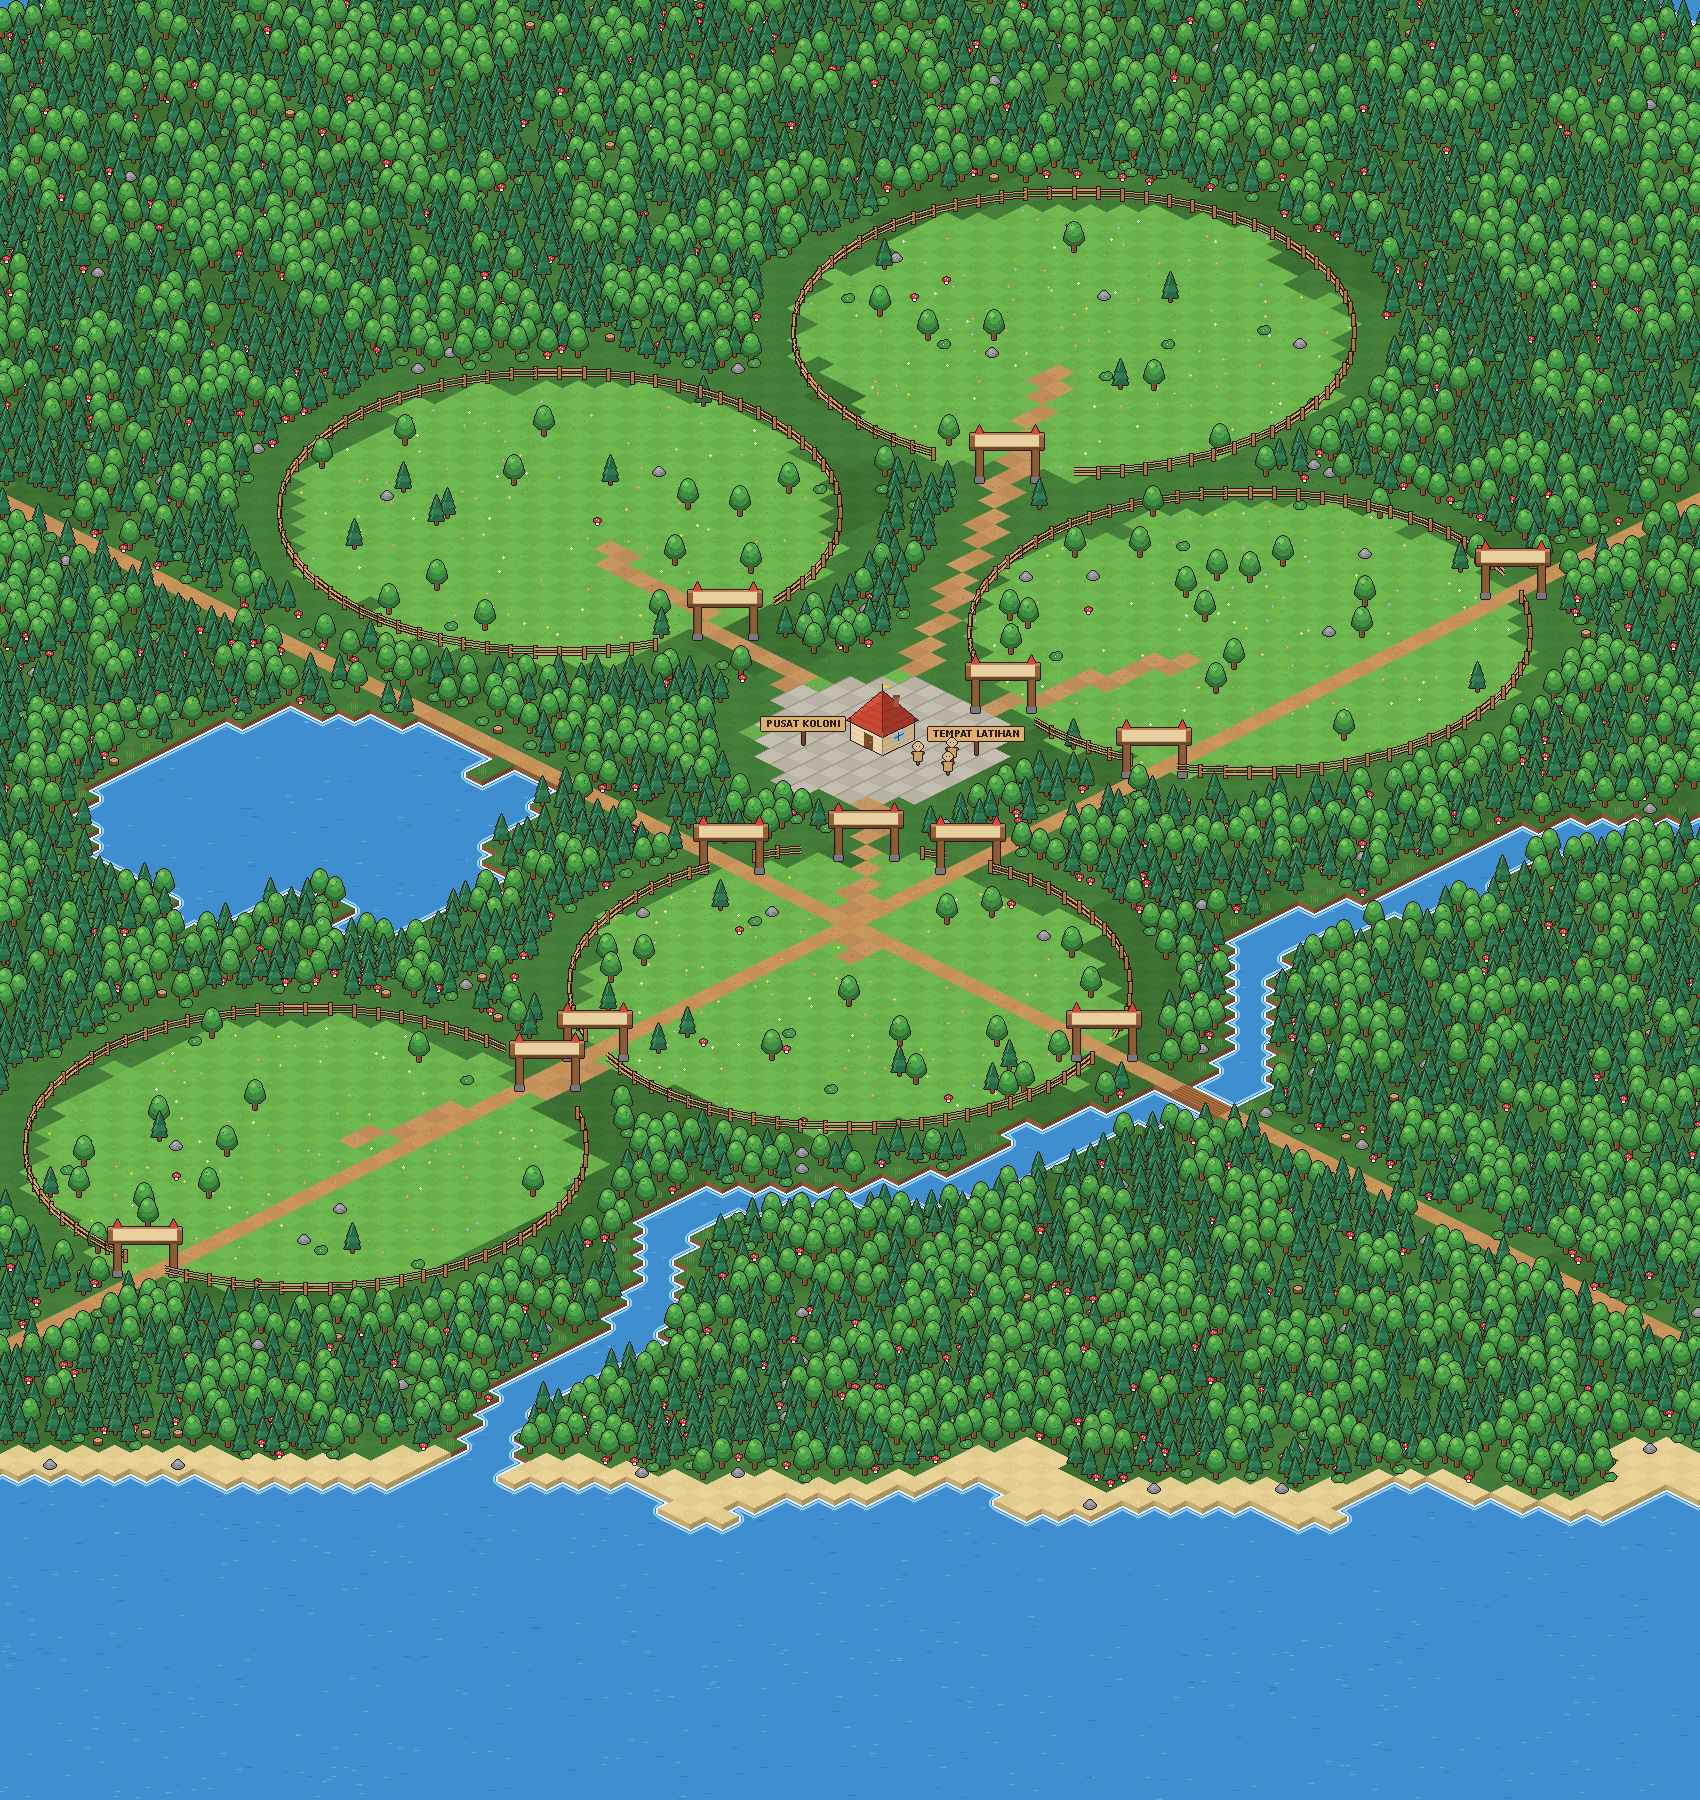
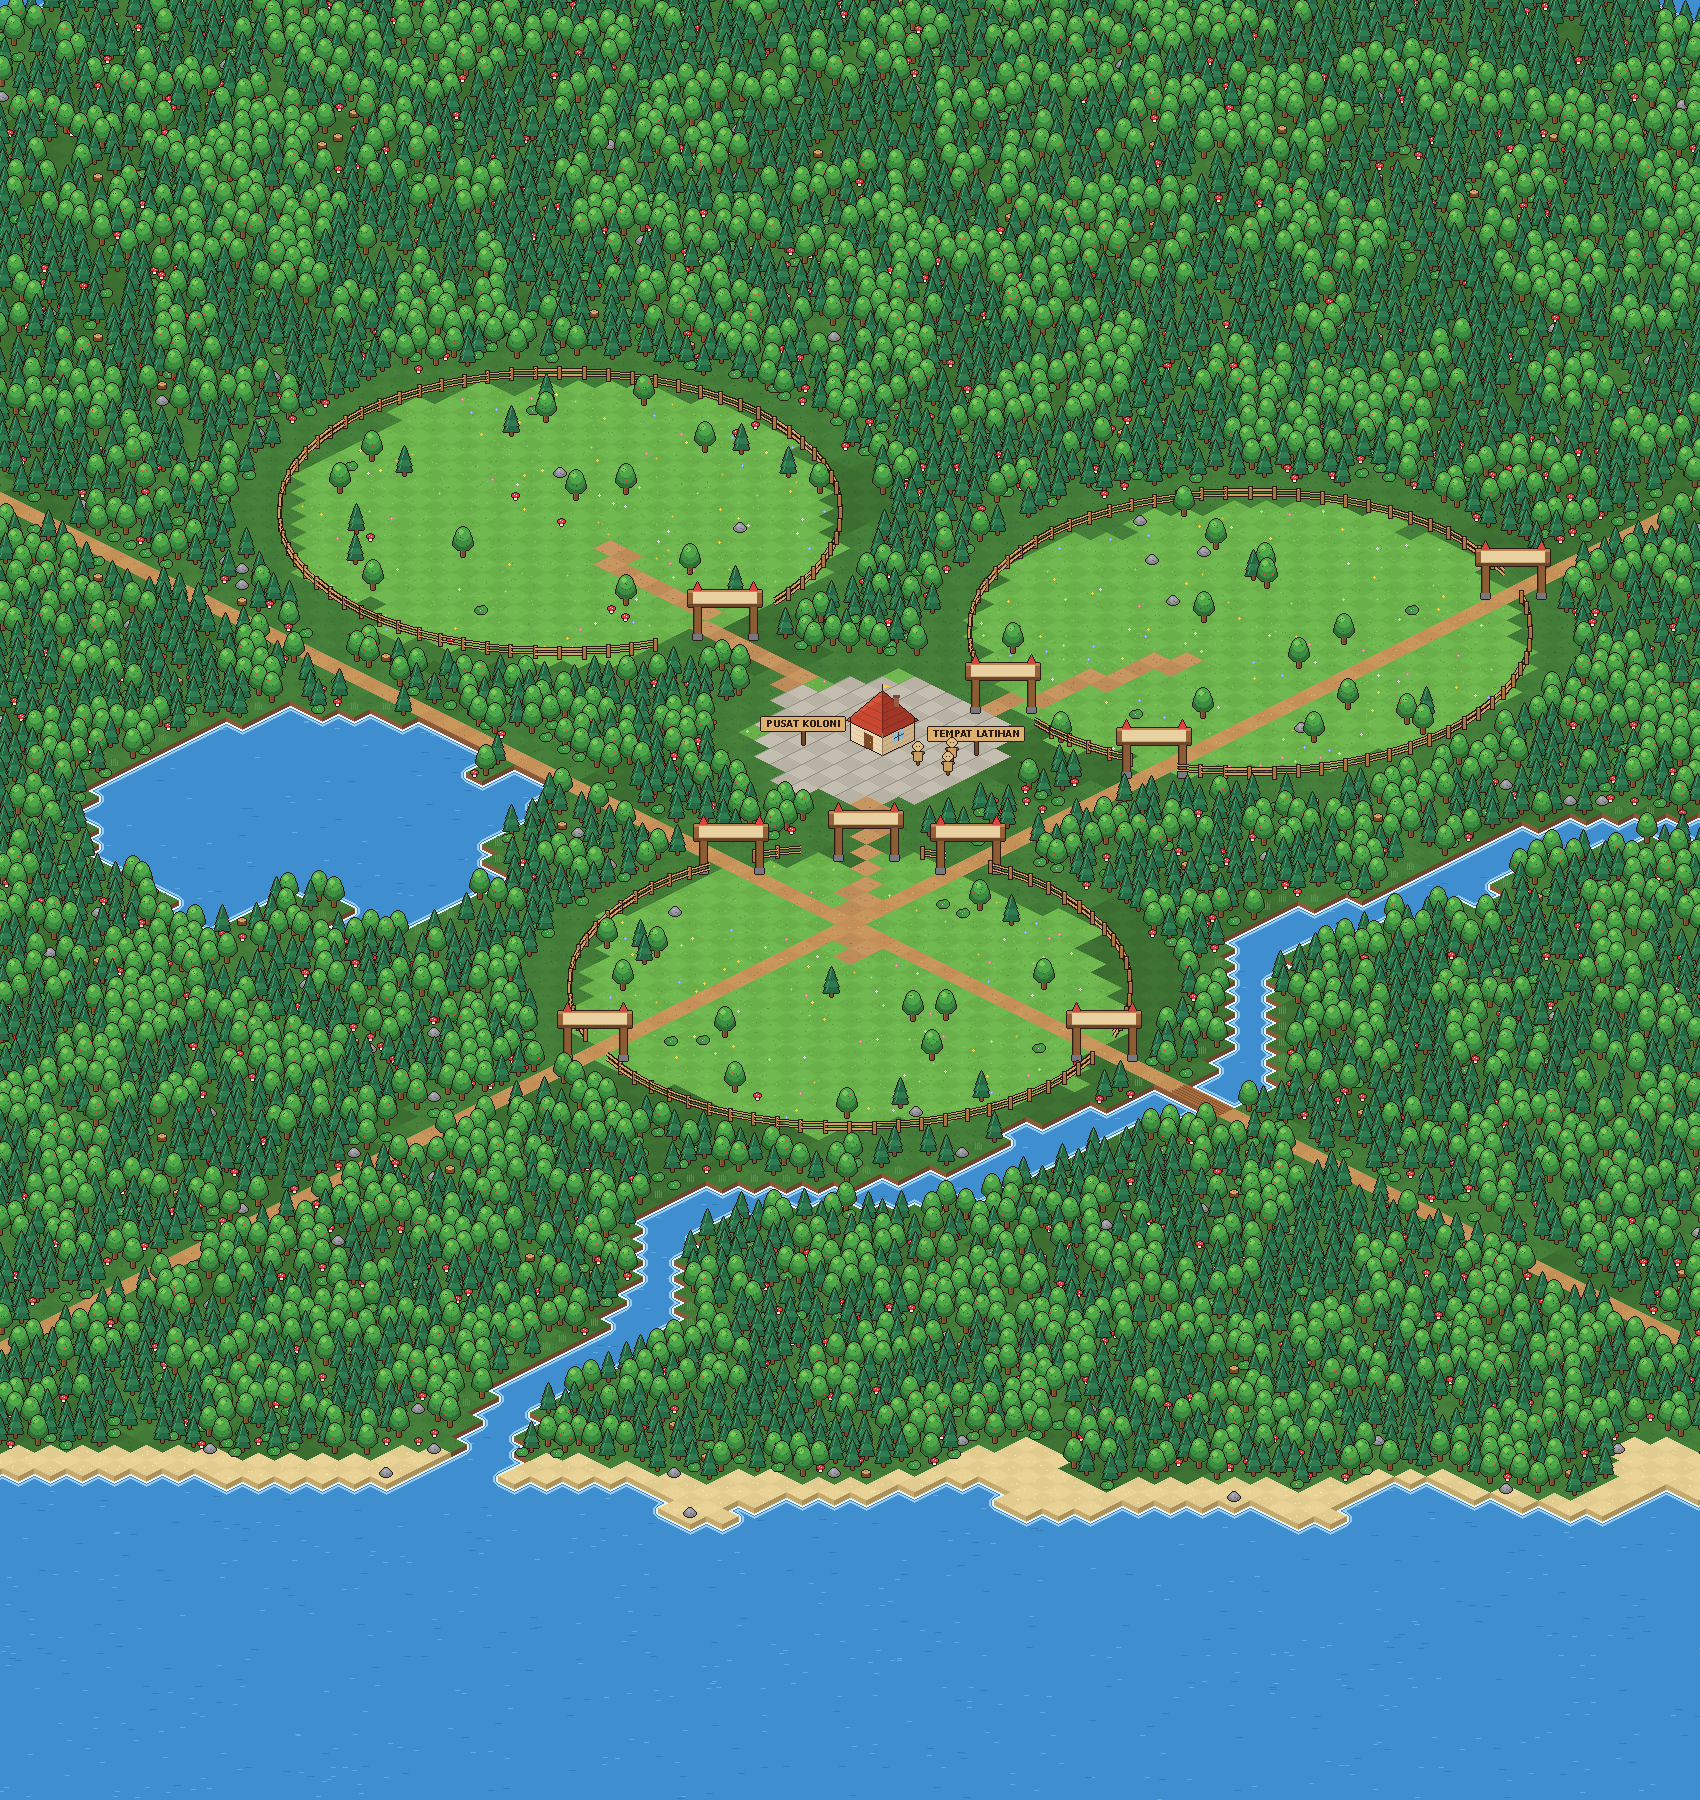
Peta bertahap: lahan Wilayah 4/5 baru muncul setelah dibuka (world-3/4/5); papan gapura terbaca dari jauh; malam lebih terang di Mode Ringan; emote kecil disembunyikan
Claude-Session: https://claude.ai/code/session_016JCUGjeN7C4fWr6wizx4Nt

diff --git a/public/app.js b/public/app.js
@@ -73,6 +73,7 @@
     $('chipDemo').hidden = !data.demo;
     $('stepDM').hidden = !data.wajibFollow;
     fitted = false; refit();
+    gantiPeta();
     updateJam();
     renderBook(); renderVotes(); renderNews(); renderLadder(); renderTierFilter(); renderDukungan(); renderPemiluW(); updateMeBar();
     const qk = new URLSearchParams(location.search).get('kartu');
@@ -271,18 +272,32 @@
   // nama wilayah ditulis di papan gapura (world.json "papan": [x, y, n] = tengah papan, koordinat dunia)
   function wargaDiWilayah(n) { return DATA && DATA.warga ? DATA.warga.some((w) => !w.mati && w.wil === n) : false; }
   function drawPapanGapura() {
-    const P = WORLD && WORLD.papan; if (!P || cam.z < .35) return;
+    const P = WORLD && WORLD.papan; if (!P) return;
     ctx.textAlign = 'center'; ctx.textBaseline = 'middle';
-    for (const [px, py, n] of P) {
+    // dilihat jauh: hanya gapura utama (yang menghadap Pusat Koloni) supaya papan tidak bertumpuk
+    const G = WORLD.gerbang || {};
+    const utama = {};
+    if (cam.z < .8) for (const q of P) { const g = G[q[2]]; if (!g) continue; const d = Math.hypot(q[0] - g[0], q[1] - 34.5 - g[1]); if (!utama[q[2]] || d < utama[q[2]].d) utama[q[2]] = { q, d }; }
+    for (const q of P) {
+      const [px, py, n] = q;
+      if (cam.z < .8 && utama[n] && utama[n].q !== q) continue;
       const [x, y] = toScreen(px, py);
-      if (x < -60 || y < -30 || x > box.clientWidth + 60 || y > box.clientHeight + 30) continue;
+      if (x < -80 || y < -30 || x > box.clientWidth + 80 || y > box.clientHeight + 30) continue;
       const nm = namaWil(n);
       const t = nm ? nm.toUpperCase() : wargaDiWilayah(n) ? `WILAYAH ${n}` : 'SEGERA';
-      let f = 9 * cam.z; ctx.font = `700 ${f}px "Pixelify Sans", system-ui, sans-serif`;
-      const max = 60 * cam.z, w0 = ctx.measureText(t).width;
-      if (w0 > max) { f *= max / w0; ctx.font = `700 ${f}px "Pixelify Sans", system-ui, sans-serif`; }
+      // tulisan minimal 10px di layar; papan ikut membesar sedikit saat peta dilihat jauh (tetap menempel di gapura)
+      let f = Math.max(8, 9 * cam.z); ctx.font = `700 ${f}px "Pixelify Sans", system-ui, sans-serif`;
+      let tw_ = ctx.measureText(t).width;
+      const maxW = Math.max(60 * cam.z, 58);
+      if (tw_ > maxW) { f *= maxW / tw_; ctx.font = `700 ${f}px "Pixelify Sans", system-ui, sans-serif`; tw_ = ctx.measureText(t).width; }
+      const bw = Math.max(62 * cam.z, tw_ + 10), bh = Math.max(11 * cam.z, f + 5);
+      if (bw > 62 * cam.z + 1 || bh > 11 * cam.z + 1) { // papan diperbesar: gambar papan kayu baru di atas papan asli
+        ctx.fillStyle = '#2b1b17'; ctx.fillRect(Math.round(x - bw / 2) - 1, Math.round(y - bh / 2) - 1, Math.round(bw) + 2, Math.round(bh) + 2);
+        ctx.fillStyle = '#e8d0a0'; ctx.fillRect(Math.round(x - bw / 2), Math.round(y - bh / 2), Math.round(bw), Math.round(bh));
+        ctx.fillStyle = '#c8ac7c'; ctx.fillRect(Math.round(x - bw / 2), Math.round(y + bh / 2) - 1, Math.round(bw), 1);
+      }
       ctx.fillStyle = nm || wargaDiWilayah(n) ? '#2b1b17' : '#8a6a48';
-      ctx.fillText(t, x, y + .5 * cam.z);
+      ctx.fillText(t, x, y + .5);
     }
     ctx.textAlign = 'start'; ctx.textBaseline = 'alphabetic';
   }
@@ -297,7 +312,7 @@
     const sx = cam.x - Wc / cam.z / 2, sy = cam.y - Hc / cam.z / 2;
     ctx.drawImage(IMG, sx, sy, Wc / cam.z, Hc / cam.z, 0, 0, Wc, Hc);
     ctx.imageSmoothingEnabled = false;
-    try { drawPapanGapura(); } catch { /* ignore */ }
+    if (cam.z >= .8) { try { drawPapanGapura(); } catch { /* ignore */ } }
     const list = allWarga().map((w) => ({ w, p: posOf(w) })).sort((a, b) => a.p[1] - b.p[1]);
     const now = performance.now(), slp = sleeping();
     const labels = [];
@@ -344,7 +359,7 @@
         const hp = custom ? { x: sp.width / 2, y: 0 } : headPoint(sp), hx = x + shake + A.face * (hp.x - sp.width / 2) * s / Math.sqrt(sq);
         crownTop = drawSahabatCrown(hx, y - bob - lift - (footY - hp.y * s) * sq, cam.z, now);
       }
-      if (A.emote && now - A.emoteT < 1600 && !slp) {
+      if (A.emote && now - A.emoteT < 1600 && !slp && cam.z >= .7) {
         const age = (now - A.emoteT) / 1600, fs = Math.round(8 + 3 * cam.z);
         ctx.font = `700 ${fs}px "Pixelify Sans", monospace`; ctx.textAlign = 'center'; ctx.textBaseline = 'alphabetic';
         const ex = x + 7 * cam.z, ey = top + 4 * cam.z - age * 6 * cam.z;
@@ -358,6 +373,7 @@
       labels.push({ w, x, y: Math.min(headTop, crownTop) - 3, big: w === selected || w === hover });
      } catch (err) { console.warn('sprite gagal', w.u, err); }
     }
+    if (cam.z < .8) { try { drawPapanGapura(); } catch { /* ignore */ } } // dilihat jauh: papan di atas hewan supaya terbaca
     drawSky(Wc, Hc, list);
     // ---- labels: placed by priority; a label that would collide is hidden and becomes a small dot
     const placed = [];
@@ -420,7 +436,7 @@
     const lights = (WORLD && WORLD.lights) || LIGHTS;
     if (dark <= 0.01 && warm <= 0.01) return;
     const mixc = (a, b, t) => a.map((v, i) => Math.round(v + (b[i] - v) * t));
-    let c = mixc([255, 255, 255], [70, 82, 150], dark * .82);
+    let c = mixc([255, 255, 255], [70, 82, 150], dark * (RINGAN ? .48 : .82)); // Mode Ringan: malam lebih terang (tanpa lampu & cahaya)
     c = mixc(c, [255, 176, 120], warm * .45);
     ctx.save();
     ctx.globalCompositeOperation = 'multiply';
@@ -1047,11 +1063,11 @@
     ringan: () => RINGAN,
     me: () => ME,
     focus(u) { const w = allWarga().find((x) => x.u === String(u).toLowerCase() && !x.makam) || allWarga().find((x) => x.u === String(u).toLowerCase()); if (w) { $('peta').scrollIntoView({ behavior: 'smooth' }); select(w); } return !!w; },
-    async reload() { try { const r = await fetch('api/dunia?t=' + Date.now(), { cache: 'no-store' }); const d = await r.json(); if (!d.error) { DATA = d; renderBook(); renderVotes(); renderNews(); renderPemiluW(); $('chipWarga').textContent = fmt(d.jumlahWarga) + ' WARGA'; draw(); } } catch { /* ignore */ } },
+    async reload() { try { const r = await fetch('api/dunia?t=' + Date.now(), { cache: 'no-store' }); const d = await r.json(); if (!d.error) { DATA = d; renderBook(); renderVotes(); renderNews(); renderPemiluW(); gantiPeta(); $('chipWarga').textContent = fmt(d.jumlahWarga) + ' WARGA'; draw(); } } catch { /* ignore */ } },
   };
 
   // bump when the map changes so browsers do not keep the old cached image
-  const WORLD_VER = '2026-10-30-wilayah5';
+  const WORLD_VER = '2026-10-30-bertahap';
   // ---------------------------------------------------------------- boot
   window.addEventListener('resize', resize);
   // ~30 fps animation loop (tick keeps the old 420 ms rhythm for lights and fireflies)
@@ -1069,6 +1085,17 @@
     requestAnimationFrame(frame);
   }
   requestAnimationFrame(frame);
+  // peta bertahap: world-3 (Wilayah 1–3), world-4, world-5 — lahan wilayah baru baru muncul setelah dibuka
+  let petaN = 3, gantiJalan = null;
+  function gantiPeta() {
+    const n = Math.max(3, Math.min(5, Number(DATA && DATA.wilayahBuka) || 3));
+    if (n === petaN || gantiJalan === n) return;
+    gantiJalan = n;
+    Promise.all([
+      fetch(`assets/world-${n}.json?v=` + WORLD_VER).then((r) => r.json()),
+      new Promise((res, rej) => { const im = new Image(); im.onload = () => res(im); im.onerror = rej; im.src = `assets/world-${n}.png?v=` + WORLD_VER; }),
+    ]).then(([w, im]) => { WORLD = w; IMG = im; petaN = n; gantiJalan = null; draw(); }).catch(() => { gantiJalan = null; });
+  }
   Promise.all([
     fetch('assets/world.json?v=' + WORLD_VER).then((r) => r.json()),
     new Promise((res, rej) => { const im = new Image(); im.onload = () => res(im); im.onerror = rej; im.src = 'assets/world.png?v=' + WORLD_VER; }),

diff --git a/api/dunia.js b/api/dunia.js
@@ -4,7 +4,7 @@ import { publicWarga, publicMakam, CONFIG, ensureTierSchema } from '../lib/rules
 import { json, hariKe } from '../lib/http.js';
 import { papanKopi, isTest, lencanaKopi, BIJI_PER_KOPI } from '../lib/sahabat.js';
 import { namaKembar, normNama } from '../lib/hewan.js';
-import { hasilWilayah, publicHasil, tetapkanPemenang, wilayahOf, daftarUsulWilayah, segarkanLike, bukaWilayahBaru } from '../lib/wilayah.js';
+import { hasilWilayah, publicHasil, tetapkanPemenang, wilayahOf, daftarUsulWilayah, segarkanLike, bukaWilayahBaru, jumlahWilayahBuka } from '../lib/wilayah.js';
 
 export async function GET() {
   try {
@@ -52,6 +52,7 @@ export async function GET() {
       dukungan,
       pemiluWilayah: pw ? publicHasil(pw) : null,
       usulNamaWilayah: namaWil,
+      wilayahBuka: await jumlahWilayahBuka().catch(() => 3),
       log: (logRaw || []).map((s) => { try { return JSON.parse(s); } catch { return null; } }).filter((x) => x && !(x.type === 'dukung' && /^\s*\[.*test.*\]/i.test(x.text || ''))),
     }, 200, { 'Cache-Control': 's-maxage=20, stale-while-revalidate=60' });
   } catch (e) {

diff --git a/lib/wilayah.js b/lib/wilayah.js
@@ -45,6 +45,12 @@ export function ketuaWilayah(cfg, n, hidup) {
   const kU = cfg.ketuaOtomatis?.[n];
   return (kU && hidup.find((w) => w.username === kU)) || hidup.find((w) => w.ketuaWilayah === n) || null;
 }
+/** Jumlah wilayah yang lahannya sudah dibuka di peta (1–3 selalu; wilayah berikutnya setelah pemilihannya dibuka). */
+export async function jumlahWilayahBuka() {
+  const cfg = await getCfg(); const J = jadwalOf(cfg); let n = 3;
+  while (J[n + 1] || cfg.ketuaOtomatis?.[n + 1]) n++;
+  return Math.min(5, n);
+}
 /** "Minggu, 1 November pukul 12.00 WIB" */
 export function tglWIB(iso) {
   const d = new Date(Date.parse(iso) + 7 * 36e5);

diff --git a/tools/world_export_v5.py b/tools/world_export_v5.py
@@ -11,7 +11,11 @@ OUT = sys.argv[1] if len(sys.argv) > 1 else '/home/claude/dunia-pokomen/public/a
 # (centre_i, centre_j, radius_i, radius_j) in tile units
 R_WIL = 12.0
 def tile_of(x, y): return ((x - 850) / 16 + (y - 804) / 8) / 2, ((y - 804) / 8 - (x - 850) / 16) / 2
-CENTRES = {1: tile_of(850, 995), 2: tile_of(1250, 640), 3: tile_of(560, 520), 4: (-22.0, -36.0), 5: (5.0, 39.0)}
+ALL_CENTRES = {1: tile_of(850, 995), 2: tile_of(1250, 640), 3: tile_of(560, 520), 4: (-22.0, -36.0), 5: (5.0, 39.0)}
+# varian peta: hanya wilayah 1..N_BUKA yang sudah dibuka (lahannya digambar); sisanya tetap hutan
+import os
+N_BUKA = int(os.environ.get('N_BUKA', '5'))
+CENTRES = {n: c for n, c in ALL_CENTRES.items() if n <= N_BUKA}
 REGB = {n: [(c[0], c[1], R_WIL, R_WIL)] for n, c in CENTRES.items()}
 PKC = tile_of(880, 740)
 PKB = (PKC[0], PKC[1], 5.5, 5.5)
@@ -196,7 +200,7 @@ items.append((hx, hy + 16, None))
 for x, y, im in sorted(items, key=lambda t: t[1]):
     if im is None: cv.alpha_composite(hs, (int(hx - ha[0]), int(hy - ha[1]))); continue
     cv.alpha_composite(im, (int(x - im.width // 2), int(y - im.height + 2)))
-cv.convert('RGB').save(f'{OUT}/world.png', optimize=True)
+cv.convert('RGB').save(f'{OUT}/world-{N_BUKA}.png', optimize=True)
 
 # walkable tiles inside the clearing (centres), away from trees, the hall and water
 walk = []
@@ -225,8 +229,10 @@ by_reg = {n: [p for p in walk if RTILE.get(tuple(p)) == n] for n in REGB}
 centre = {n: Wd.iso(*c) for n, c in CENTRES.items()}
 spots = []
 for n in sorted(CENTRES): spots += homes_in(by_reg[n], centre[n], 50)
+NB = len(CENTRES)
+for k in range(250 - 50 * NB): spots.append(spots[(k % NB) * 50 + 25 + k // NB % 25])  # warga wilayah yang belum dibuka menumpang
 homes = spots
 REGION_POS = {str(n): list(centre[n]) for n in REGB}
 json.dump({'w': Wd.W, 'h': Wd.H, 'center': list(Wd.iso(*PKC)), 'walk': walk, 'spots': homes, 'open': OPEN_BLOBS, 'wilayah': REGION_POS, 'pk': list(Wd.iso(*PKC)),
-           'lights': [[hx + 12, hy + 10, 26], [hx - 14, hy + 16, 18]], 'balai': [hx, hy], 'pagar': FENCE, 'gerbang': {str(n): list(Wd.iso(*g)) for n, g in GATES.items()}, 'papan': PAPAN, 'ukuranWilayah': 50}, open(f'{OUT}/world.json', 'w'))
+           'lights': [[hx + 12, hy + 10, 26], [hx - 14, hy + 16, 18]], 'balai': [hx, hy], 'pagar': FENCE, 'gerbang': {str(n): list(Wd.iso(*g)) for n, g in GATES.items()}, 'papan': PAPAN, 'ukuranWilayah': 50, 'nBuka': N_BUKA}, open(f'{OUT}/world-{N_BUKA}.json', 'w'))
 print('walk tiles', len(walk), 'items', len(items))
